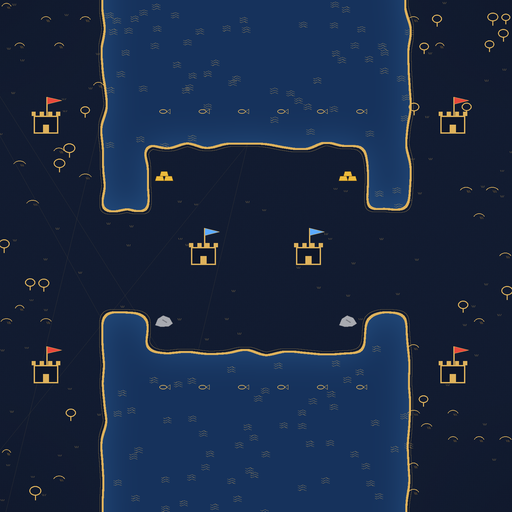
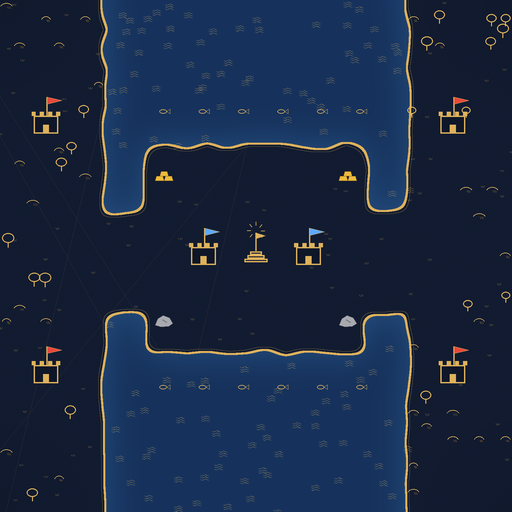
Add a sacred site in the middle of each map
The layouts placed none, so the lobby had nothing to hold. Fortress H and
Hill keep theirs clear of every start; on Fortress Bridge it sits in the
middle of the bridge. Covers draw them as official icons do.

diff --git a/maps/tools/map_art.py b/maps/tools/map_art.py
@@ -151,7 +151,7 @@ def _mountains(image, rows, cell, rng):
 
 
 def _plateau(image, rows, cell):
-    mask = _mask(rows, ",GS0123456789", image.size[0], 0.2)
+    mask = _mask(rows, ",GSH0123456789", image.size[0], 0.2)
     rim = _mask(rows, "#h", image.size[0], 0.0)
     plateau_area = ImageChops.multiply(mask, ImageChops.invert(rim))
     if not _mask(rows, ",", image.size[0], 0).getbbox():
@@ -202,6 +202,22 @@ def _gold(draw, x, y, cell):
         draw.polygon(poly, fill=(236, 186, 60), outline=(120, 84, 20))
 
 
+def _shrine(draw, x, y, cell):
+    """A sacred site: a stepped gold platform with a pole and pennant, as on the official icons."""
+    line = max(2, int(cell * 0.07))
+    w = cell * 1.1
+    for k, width in enumerate((1.0, 0.75, 0.5)):
+        top = y + cell * 0.3 - k * cell * 0.18
+        draw.rectangle([x - w * width / 2, top - cell * 0.16, x + w * width / 2, top], outline=GOLD, width=line)
+    pole_top = y - cell * 1.1
+    draw.line([(x, y - cell * 0.24), (x, pole_top)], fill=GOLD, width=line)
+    draw.polygon([(x, pole_top), (x + cell * 0.45, pole_top + cell * 0.14), (x, pole_top + cell * 0.28)], fill=GOLD)
+    for angle in range(0, 360, 45):
+        dx, dy = math.cos(math.radians(angle)), math.sin(math.radians(angle))
+        draw.line([(x + dx * cell * 0.25, pole_top - cell * 0.1 + dy * cell * 0.25),
+                   (x + dx * cell * 0.42, pole_top - cell * 0.1 + dy * cell * 0.42)], fill=GOLD, width=max(1, line // 2))
+
+
 def _stone(draw, x, y, cell):
     r = cell * 0.42
     blob = [(x - r, y + r * 0.4), (x - r * 0.7, y - r * 0.3), (x - r * 0.1, y - r * 0.7), (x + r * 0.6, y - r * 0.45),
@@ -243,6 +259,8 @@ def draw_map(rows, size, defenders, seed=7):
         _gold(draw, (c + 0.5) * cell, (r + 0.6) * cell, cell * 1.6)
     for r, c in _cells(rows, "S"):
         _stone(draw, (c + 0.5) * cell, (r + 0.5) * cell, cell * 1.6)
+    for r, c in _cells(rows, "H"):
+        _shrine(draw, (c + 0.5) * cell, (r + 0.5) * cell, cell * 1.6)
     for r, c in _cells(rows, "0123456789"):
         colour = DEFENDER if rows[r][c] in defenders else ATTACKER
         _keep(draw, (c + 0.5) * cell, (r + 0.5) * cell, cell * 1.7, colour)

diff --git a/maps/fortress_bridge/publish/DESCRIPTION.md b/maps/fortress_bridge/publish/DESCRIPTION.md
@@ -14,6 +14,7 @@
 | 通道 | 中间一座陆桥，约 48 米宽，两侧是深水，没有别的路；停在一侧的战舰能打到大半座桥 |
 | 水域 | 上下都是深湖，走不过去；两岸都有浅滩，可以捕鱼、造码头 |
 | 资源 | 标准开局资源，两岸后方各多一座金矿和石矿 |
+| 圣地 | 长桥正中间一座，双方必争 |
 
 ### 怎么玩
 
@@ -36,6 +37,7 @@
 | Way across | One land bridge in the middle, about 48 m wide, with deep water on both sides and no other way over; a warship on one side covers most of it |
 | Water | Deep lakes above and below: no wading, but both shores have shallows for fishing and docks |
 | Resources | The standard start, plus an extra gold and stone deposit at the back of each shore |
+| Sacred site | One in the middle of the bridge, for both sides to fight over |
 
 ### How to play
 

diff --git a/maps/fortress_h/publish/DESCRIPTION.md b/maps/fortress_h/publish/DESCRIPTION.md
@@ -15,6 +15,7 @@
 | 通道 | 左右各一个窄口，很窄，几段城墙就能封住 |
 | 水域 | 横梁上下是深湖，走不过去；可以捕鱼，也能造船 |
 | 资源 | 标准开局资源，横梁两端各多一座金矿和石矿 |
+| 圣地 | 横梁正中间一座，在守方身后 |
 
 ### 怎么玩
 
@@ -38,6 +39,7 @@
 | Ways in | One narrow neck at each end, narrow enough to close with a few wall sections |
 | Water | Deep lakes above and below the crossbar: no wading, but fishing and ships work |
 | Resources | The standard start, plus an extra gold and stone deposit at each end of the crossbar |
+| Sacred site | One in the middle of the crossbar, behind the defenders |
 
 ### How to play
 

diff --git a/maps/fortress_hill/publish/DESCRIPTION.md b/maps/fortress_hill/publish/DESCRIPTION.md
@@ -16,6 +16,7 @@
 | 地势 | 平缓的小山，没有悬崖，镜头不会跳 |
 | 水域 | 护城河是深水，走不过去；内侧有浅滩，可以捕鱼、造码头 |
 | 资源 | 标准开局资源，高地四角各多一座金矿或石矿 |
+| 圣地 | 小山正中间一座，在守方身后 |
 
 ### 怎么玩
 
@@ -40,6 +41,7 @@
 | Height | A gentle hill with no cliffs, so the camera stays steady |
 | Water | The moat is deep: no wading, but the inner side has a shore for fishing and docks |
 | Resources | The standard start, plus an extra gold or stone deposit in each corner of the plateau |
+| Sacred site | One in the middle of the hill, behind the defenders |
 
 ### How to play
 
